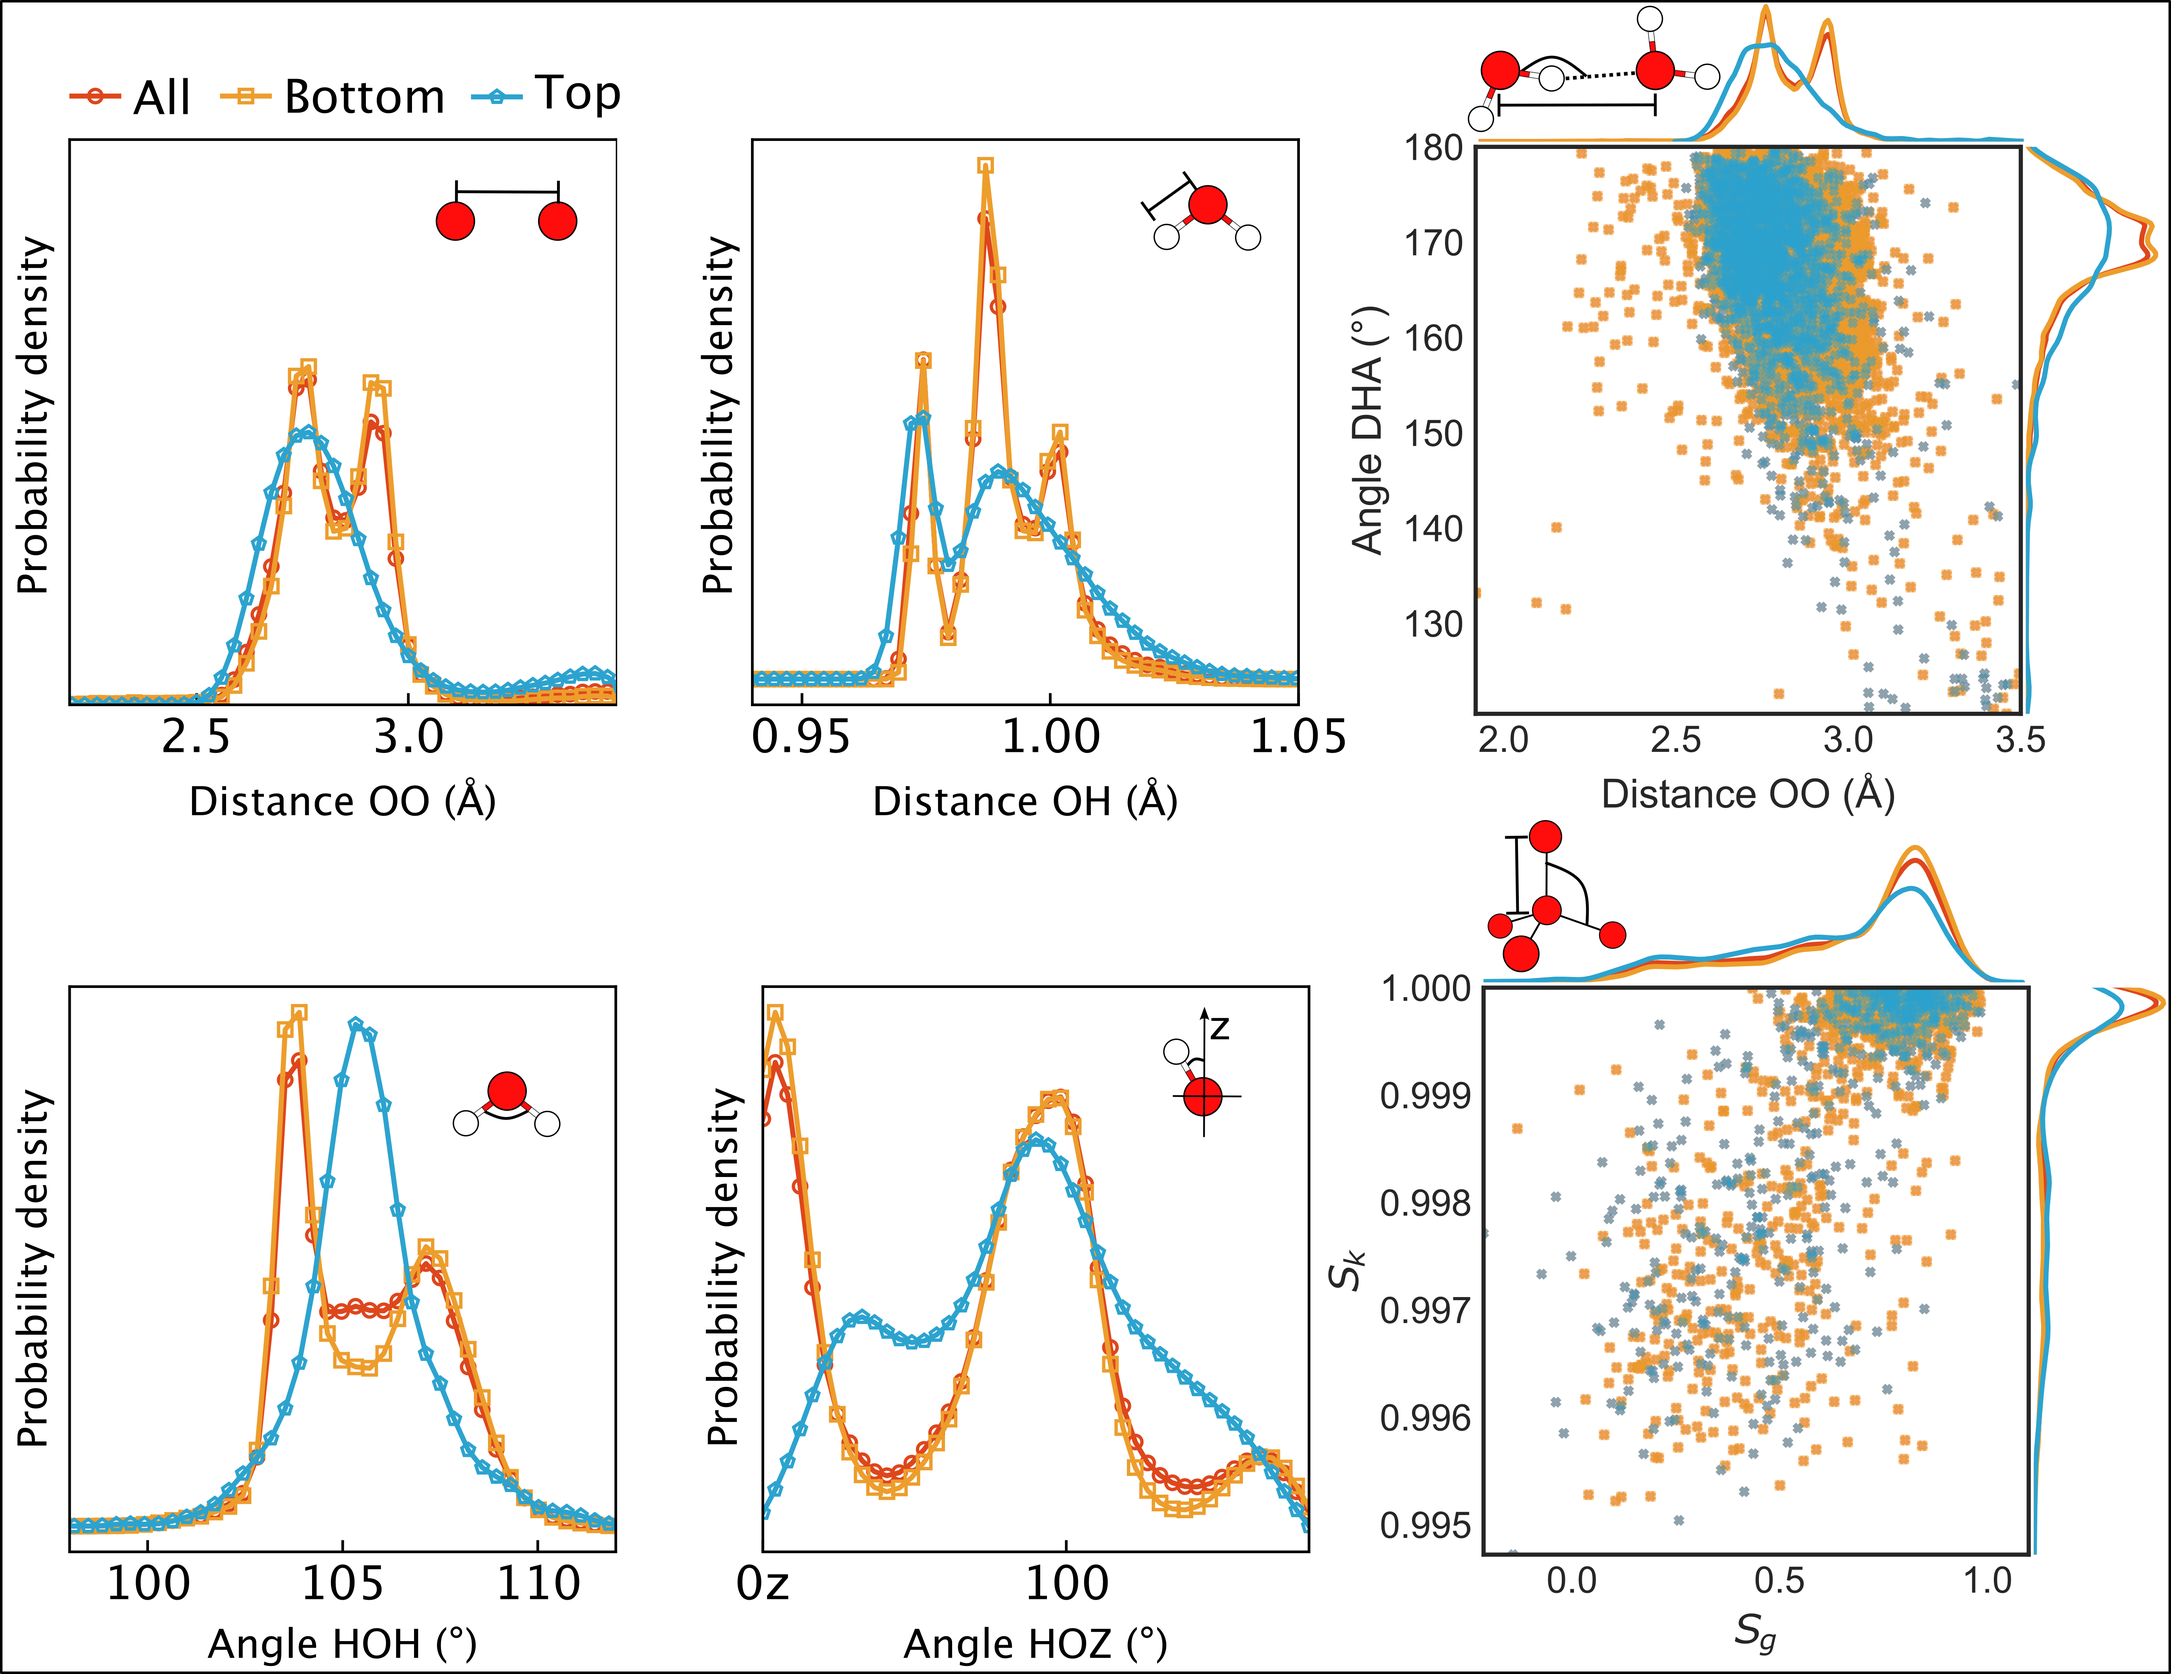
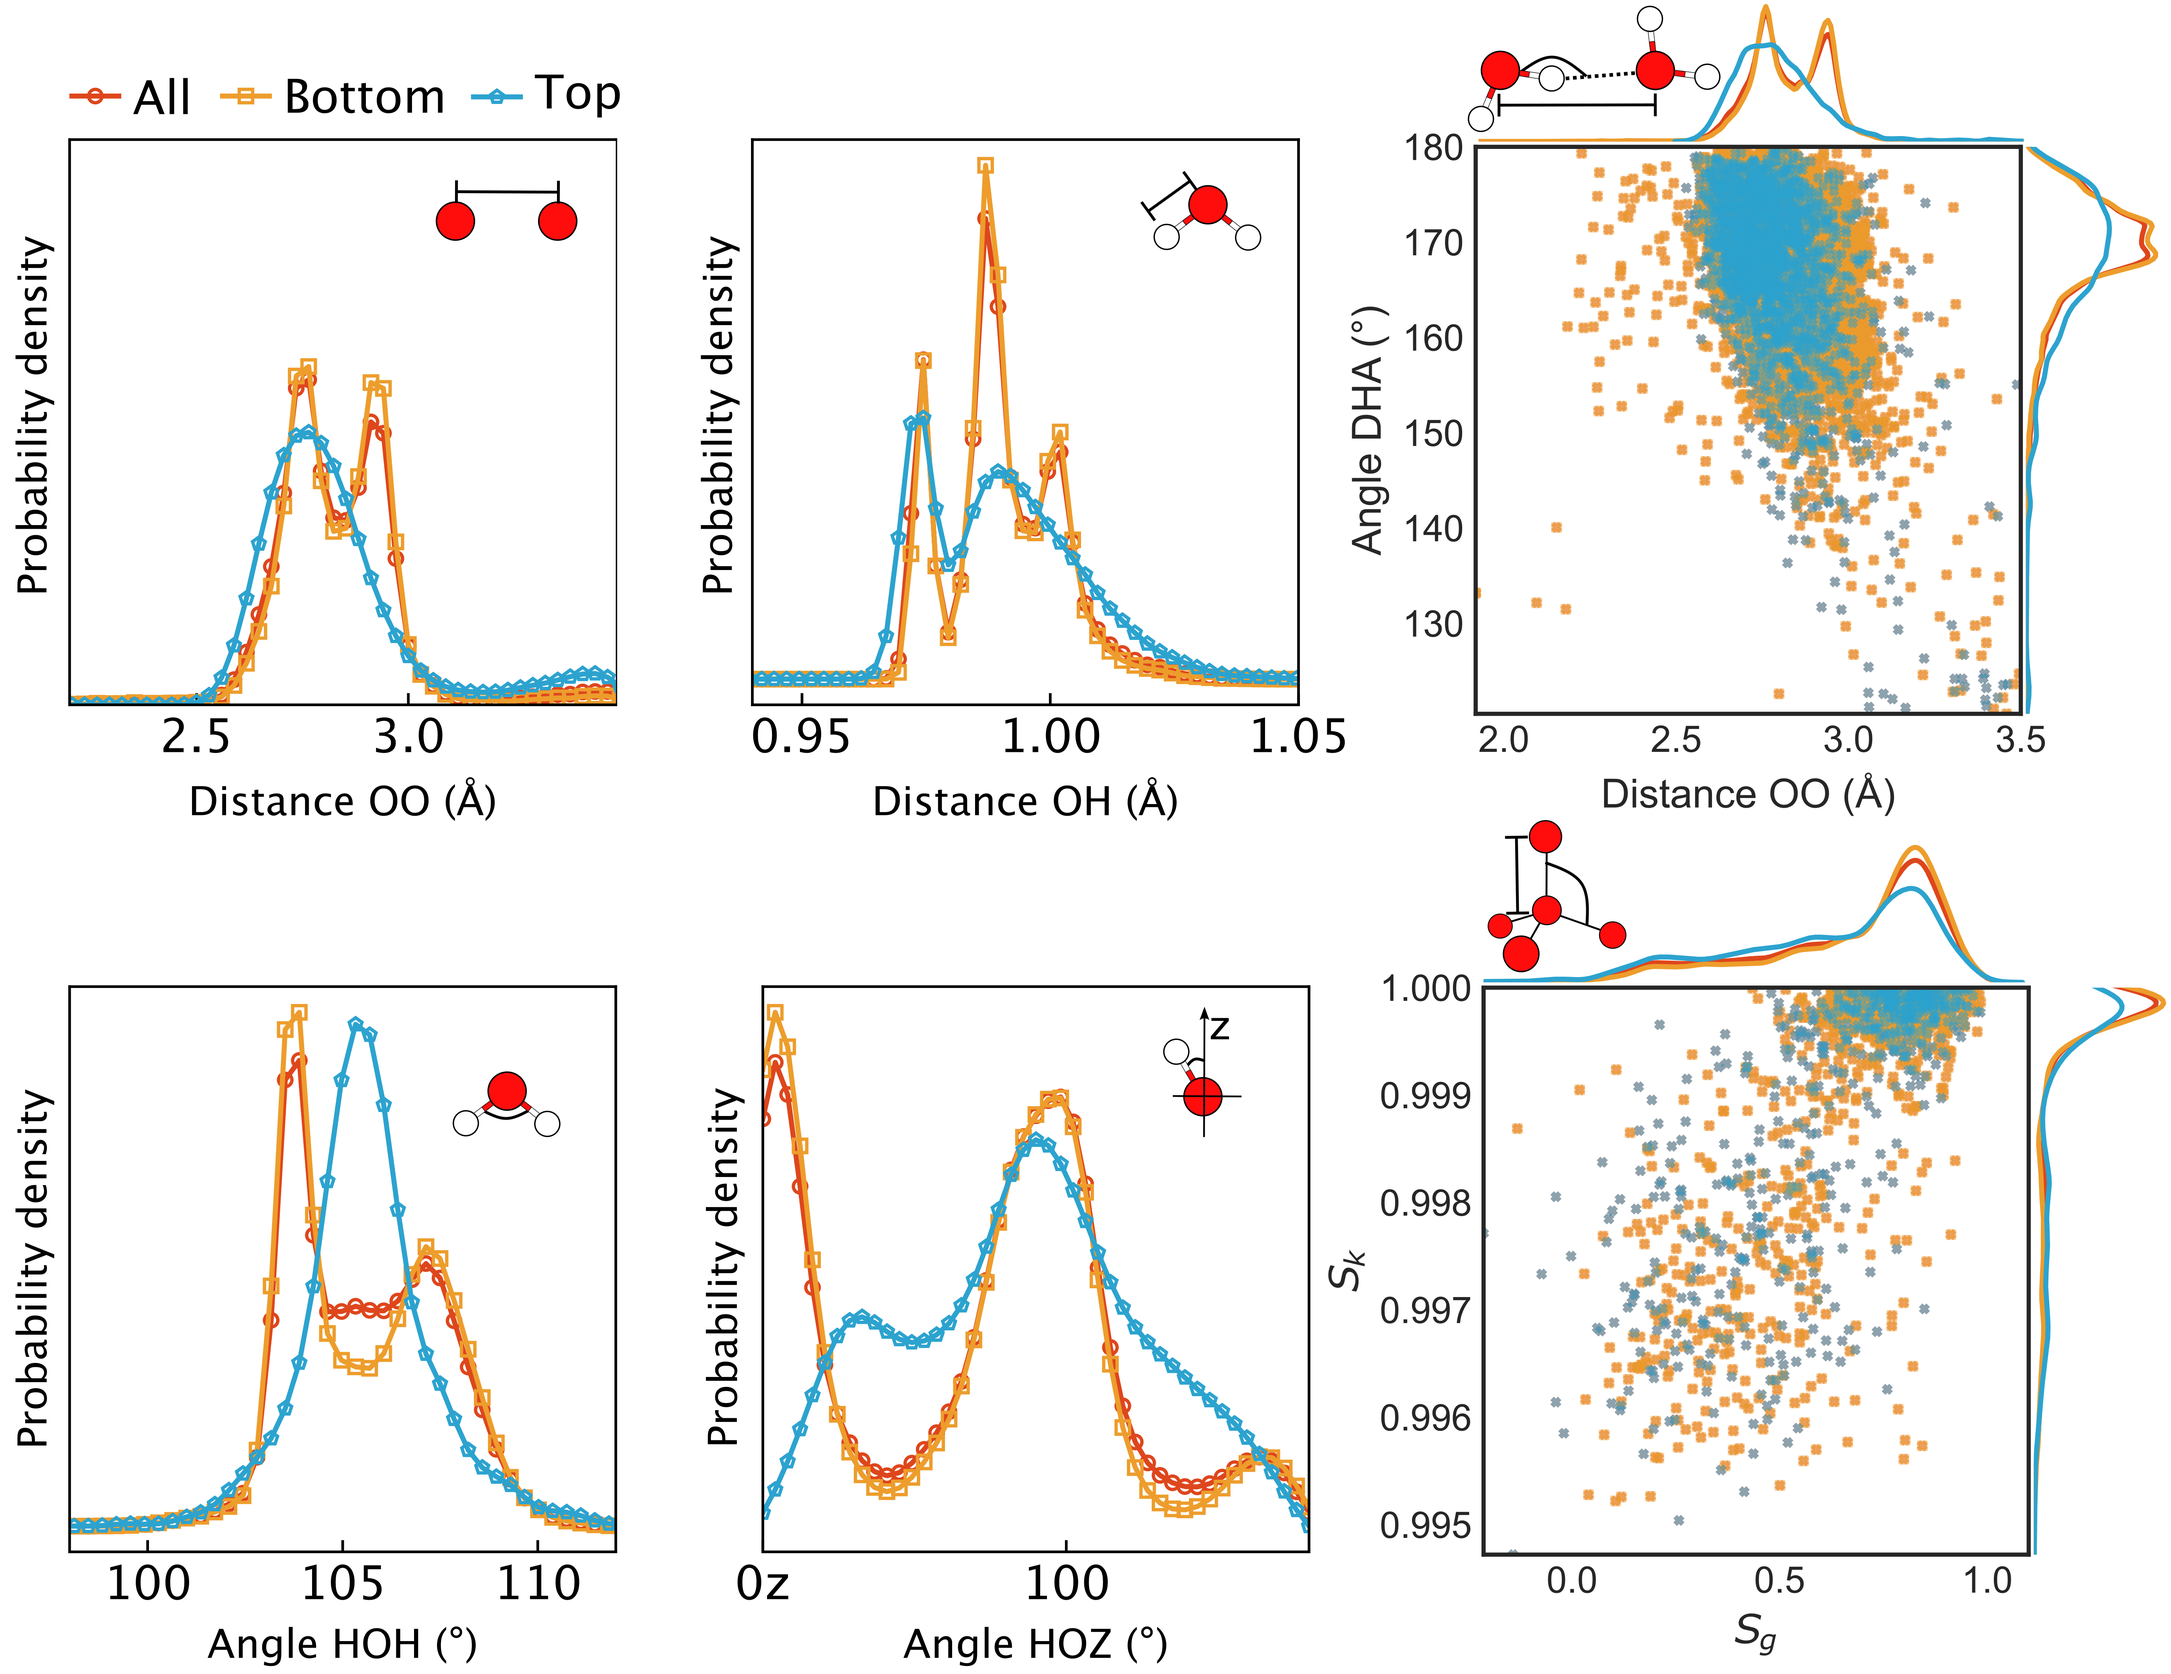
update

Changed region(s): [[0.0, 0.0, 1.0, 1.0]]

diff --git a/doc/theory_distribution.md b/doc/theory_distribution.md
@@ -1,4 +1,6 @@
 # Theory distributions obtained from simulations
+![](../manuscript/figures/theory.png)
+
 ## Diantance and angle 
 ```{figure} ../results/theoretical_distributions/Label/RDF_ADF_Label.png
 :alt: RDF_ADF
